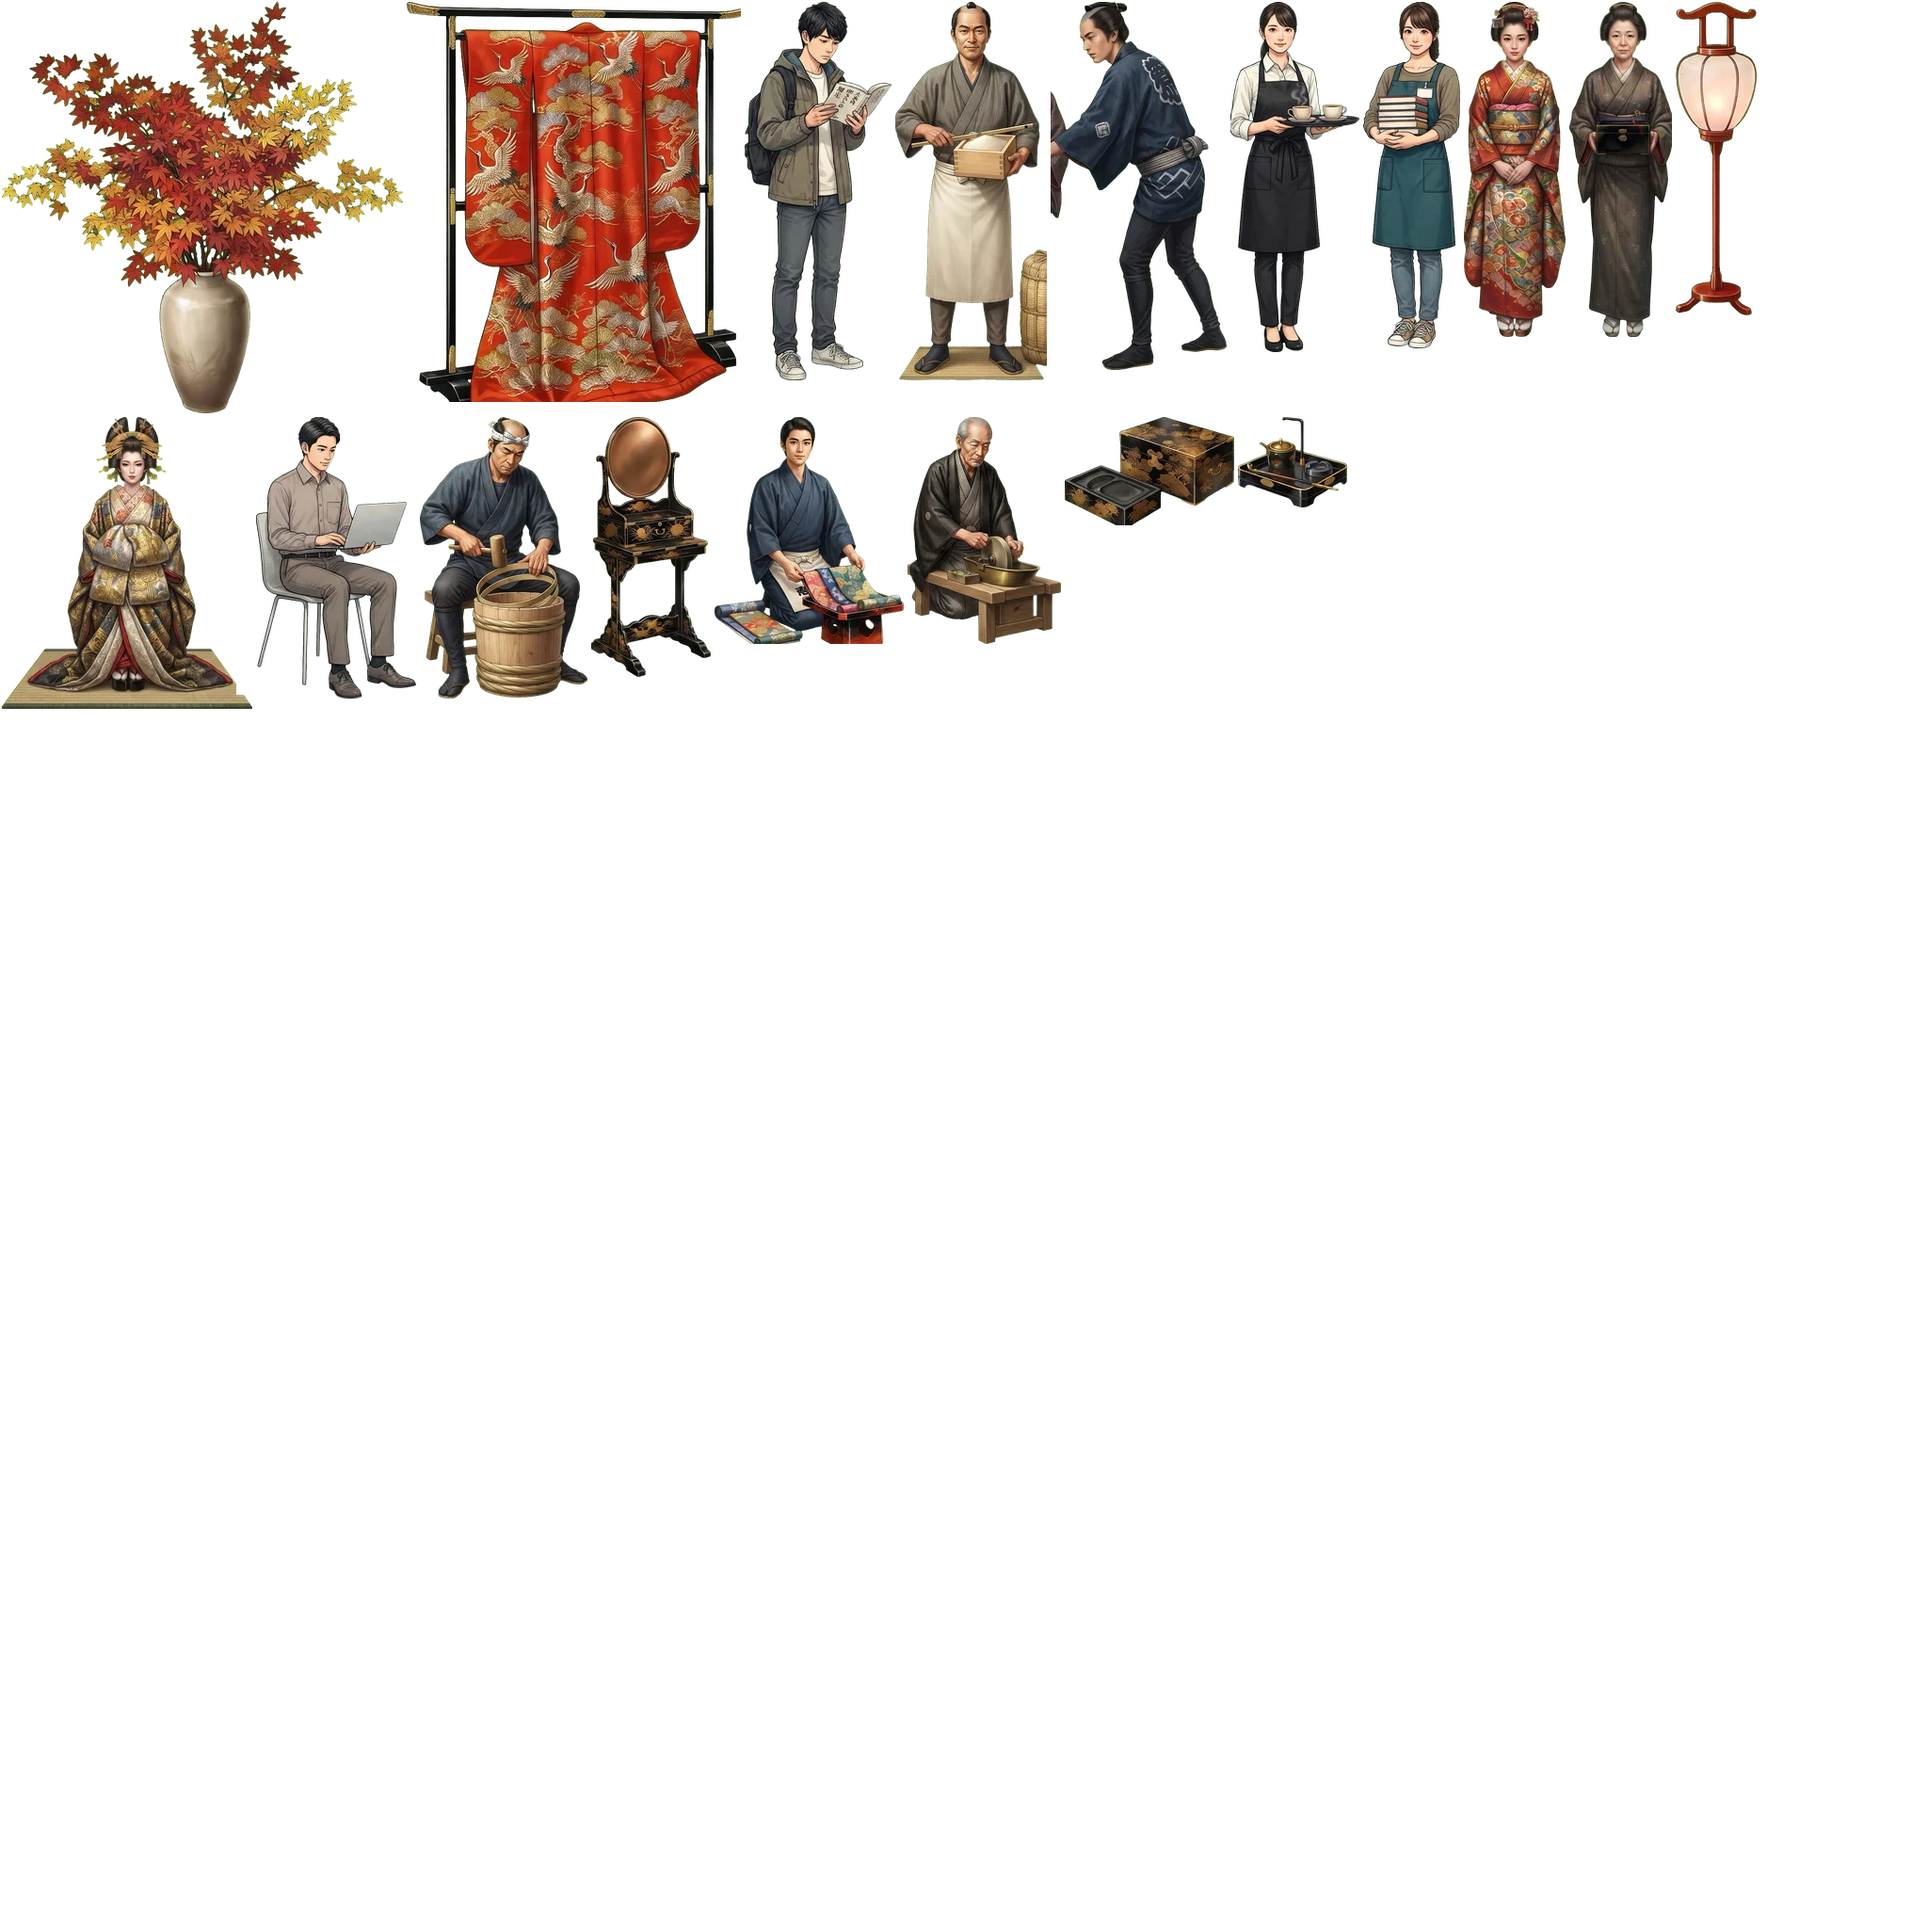
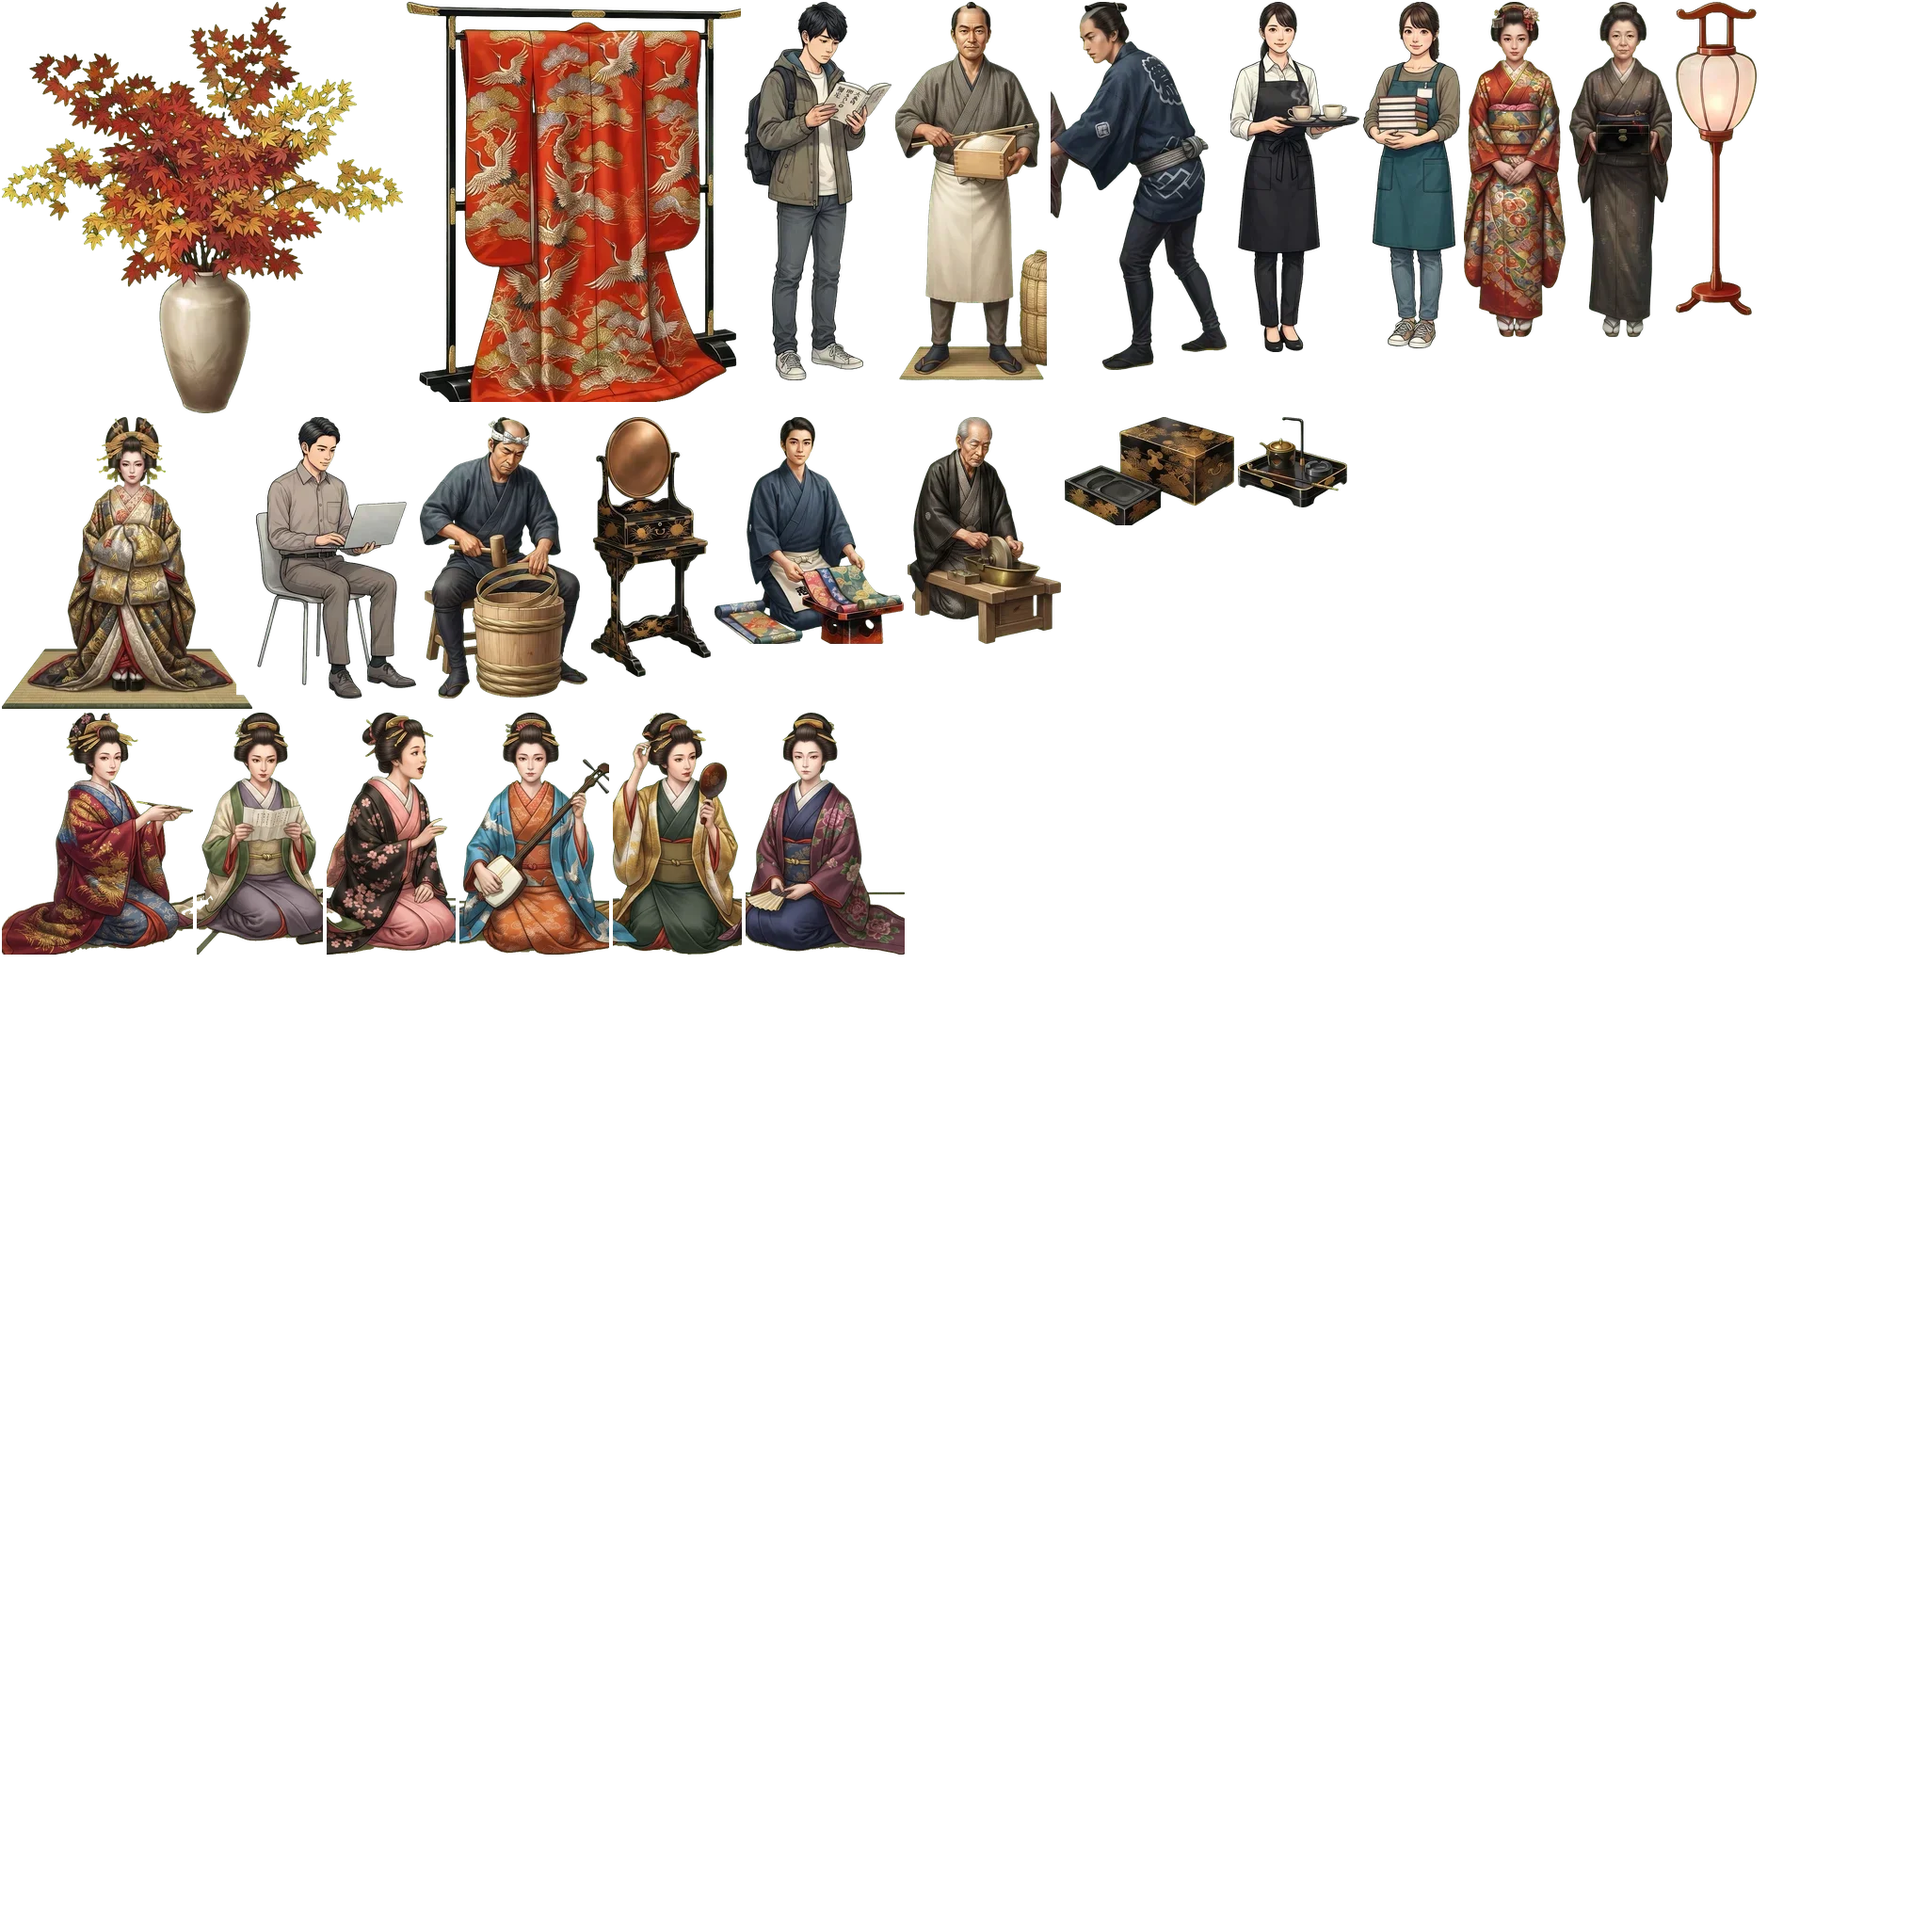
江戸城さんぽ: 張見世に座る遊女6人 hm_* を deco_yukaku に追加
Claude-Session: https://claude.ai/code/session_01QTjZDsMQTCvnxksEpW3PQF

Changed region(s): [[0.0, 0.375, 0.4688, 0.5]]

diff --git a/oshiro/common/README.md b/oshiro/common/README.md
@@ -25,7 +25,7 @@
 | `deco_banya.webp` | 町奉行所・番所・火消（2048px、アトラスの9ページ目として読む。位置と高さは江戸城の index.html の `deco_banya` の行）: 奉行所と番所の人 `bg_*`（町奉行・同心・岡っ引・下っ引・自身番・木戸番・夜回り）、町火消 `mf_*`（纏持ち・はしご・鳶口・竜吐水・水かけ・頭）、大名火消と道具 `fb_*`（大名火消の侍・足軽・半鐘・火の見梯子・手桶・天水桶） | 江戸 |
 | `deco_meisho.webp` | 浅草寺の像と道具 `as_*`（風神・雷神・仁王2体・常香炉・手水・大提灯）、見世物の絵看板 `kb_*` と幟 `nb_ai`・`nb_ki`、白洲の人と道具 `sj_*`（与力・書役・平伏する町人と女・棒を持つ同心・三つ道具・駕籠）（2048px、アトラスの10ページ目） | 江戸 |
 | `deco_hondo.webp` | 浅草寺本堂の中 `hd_*`（御宮殿・天蓋・常花・釣灯籠・磬子・須弥壇・木魚・香炉、賽銭箱、参拝の人、僧、大絵馬3枚）（2048px、アトラスの11ページ目） | 江戸 |
-| `deco_yukaku.webp` | 吉原の座敷と町の人々 `yo_*`（座る花魁・振袖新造・番頭新造・肩を貸す若い衆）`yk_*`（鏡台・衣桁の打掛・雪洞・煙草盆・紅葉の活け花・硯箱と文箱）`ed_*`（呉服屋の手代・薬種問屋・桶屋・米屋）`mc_*`（現代のカフェと本屋の人）（2048px、アトラスの12ページ目） | 江戸・現代 |
+| `deco_yukaku.webp` | 吉原の座敷と町の人々 `yo_*`（座る花魁・振袖新造・番頭新造・肩を貸す若い衆）`yk_*`（鏡台・衣桁の打掛・雪洞・煙草盆・紅葉の活け花・硯箱と文箱）`ed_*`（呉服屋の手代・薬種問屋・桶屋・米屋）`mc_*`（現代のカフェと本屋の人）`hm_*`（張見世に座る遊女6人: 煙管・文・話す・三味線・手鏡・扇）（2048px、アトラスの12ページ目） | 江戸・現代 |
 | `tex/ed_renge_tenjo.webp` | 金地に蓮華の格天井（つなげて敷ける） | 江戸 |
 | `tex/ed_tamajari.webp` `tex/ed_misesaki.webp` | 白洲の玉砂利（つなげて敷ける）／町家の店先（格子と藍の暖簾） | 江戸 |
 | `tex/az_noren_tenka.webp` | 天下布武の暖簾（512px。2048pxの装飾ページを丸ごと読まずに済むよう切り出したもの） | 安土 |
